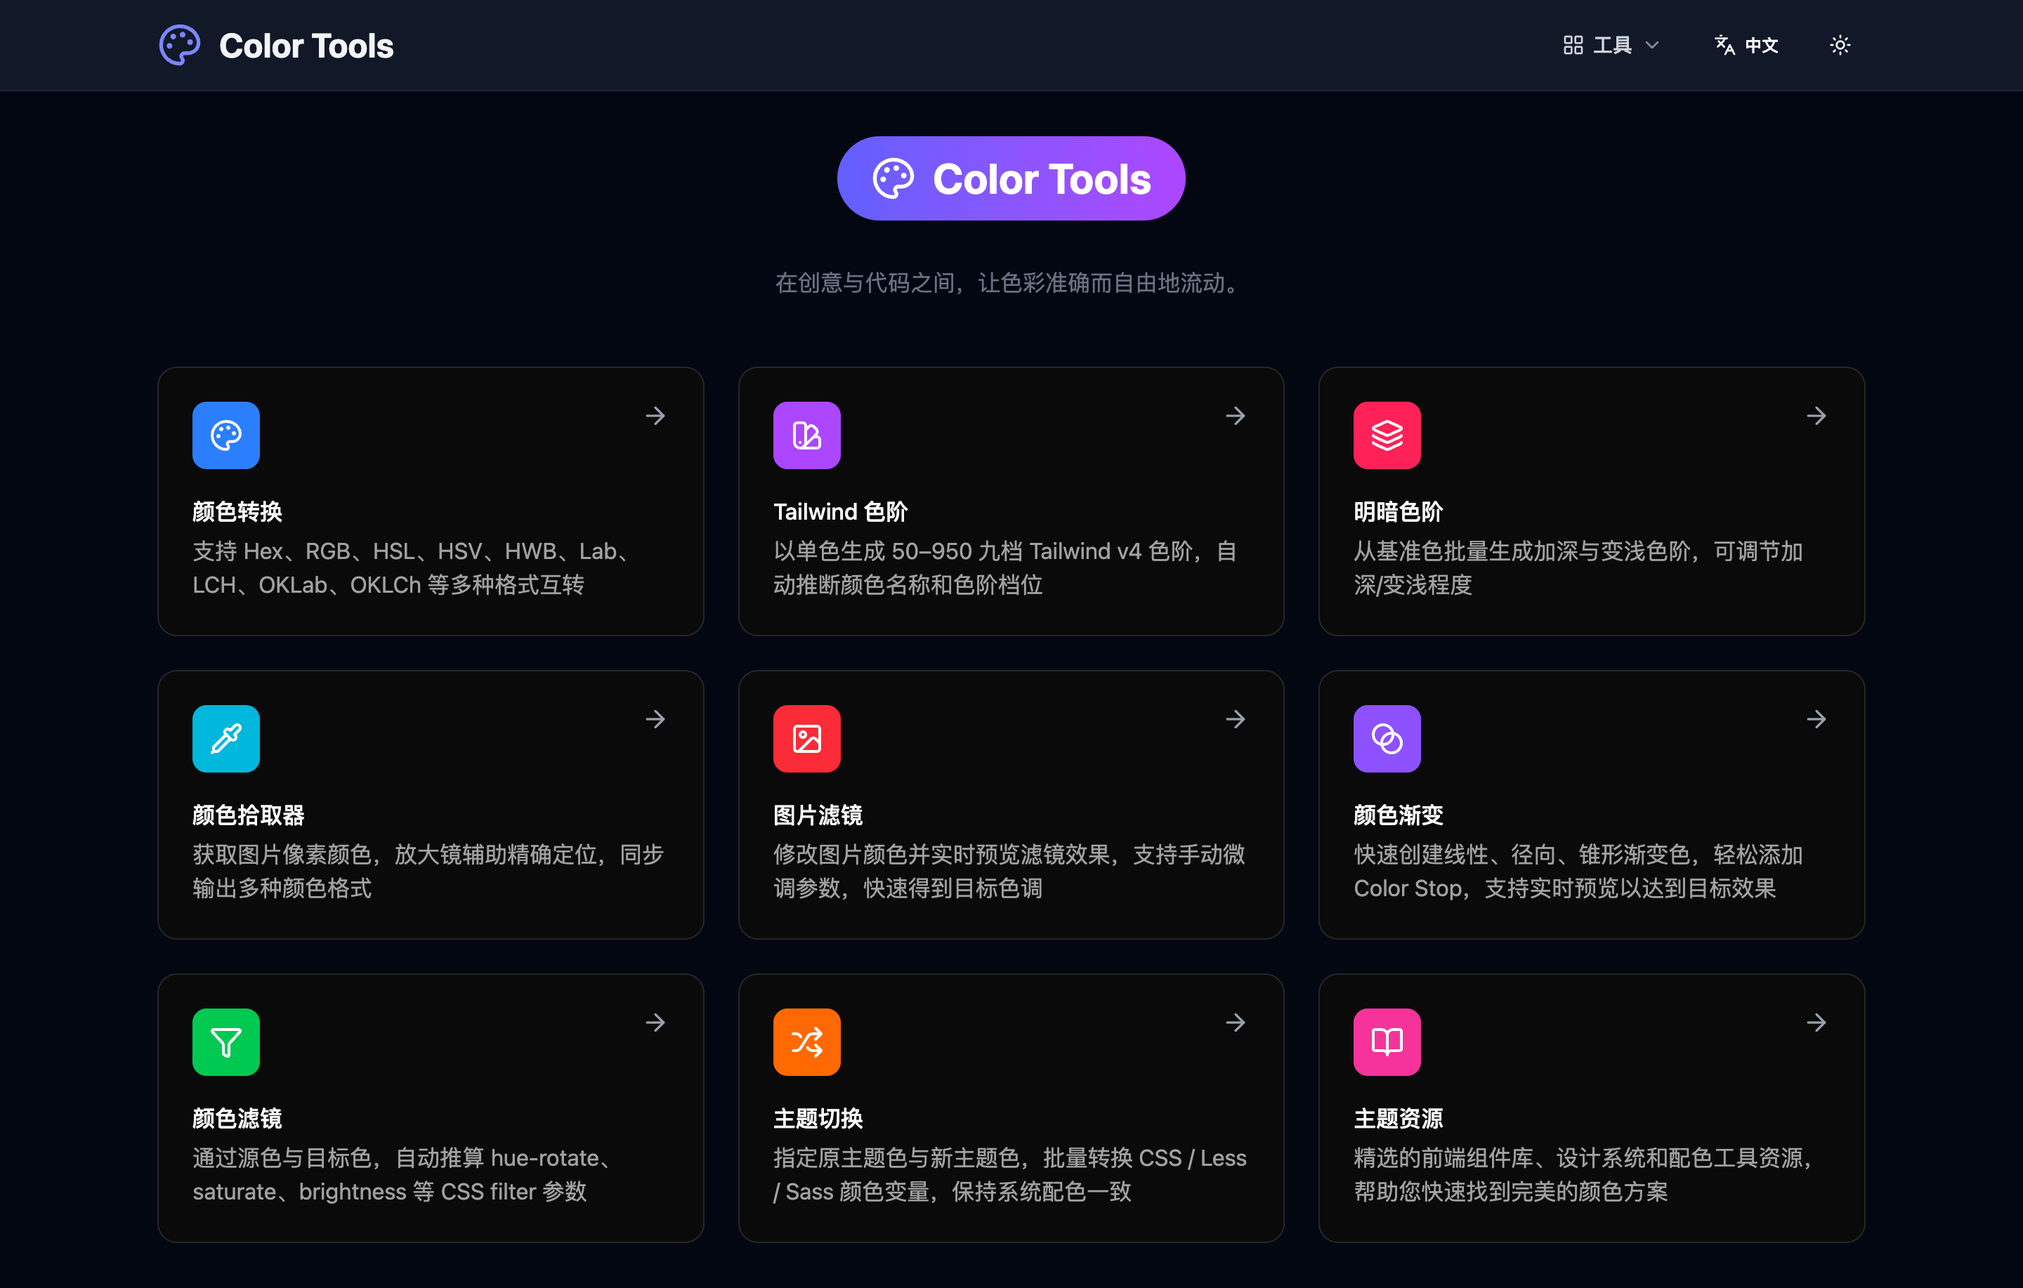
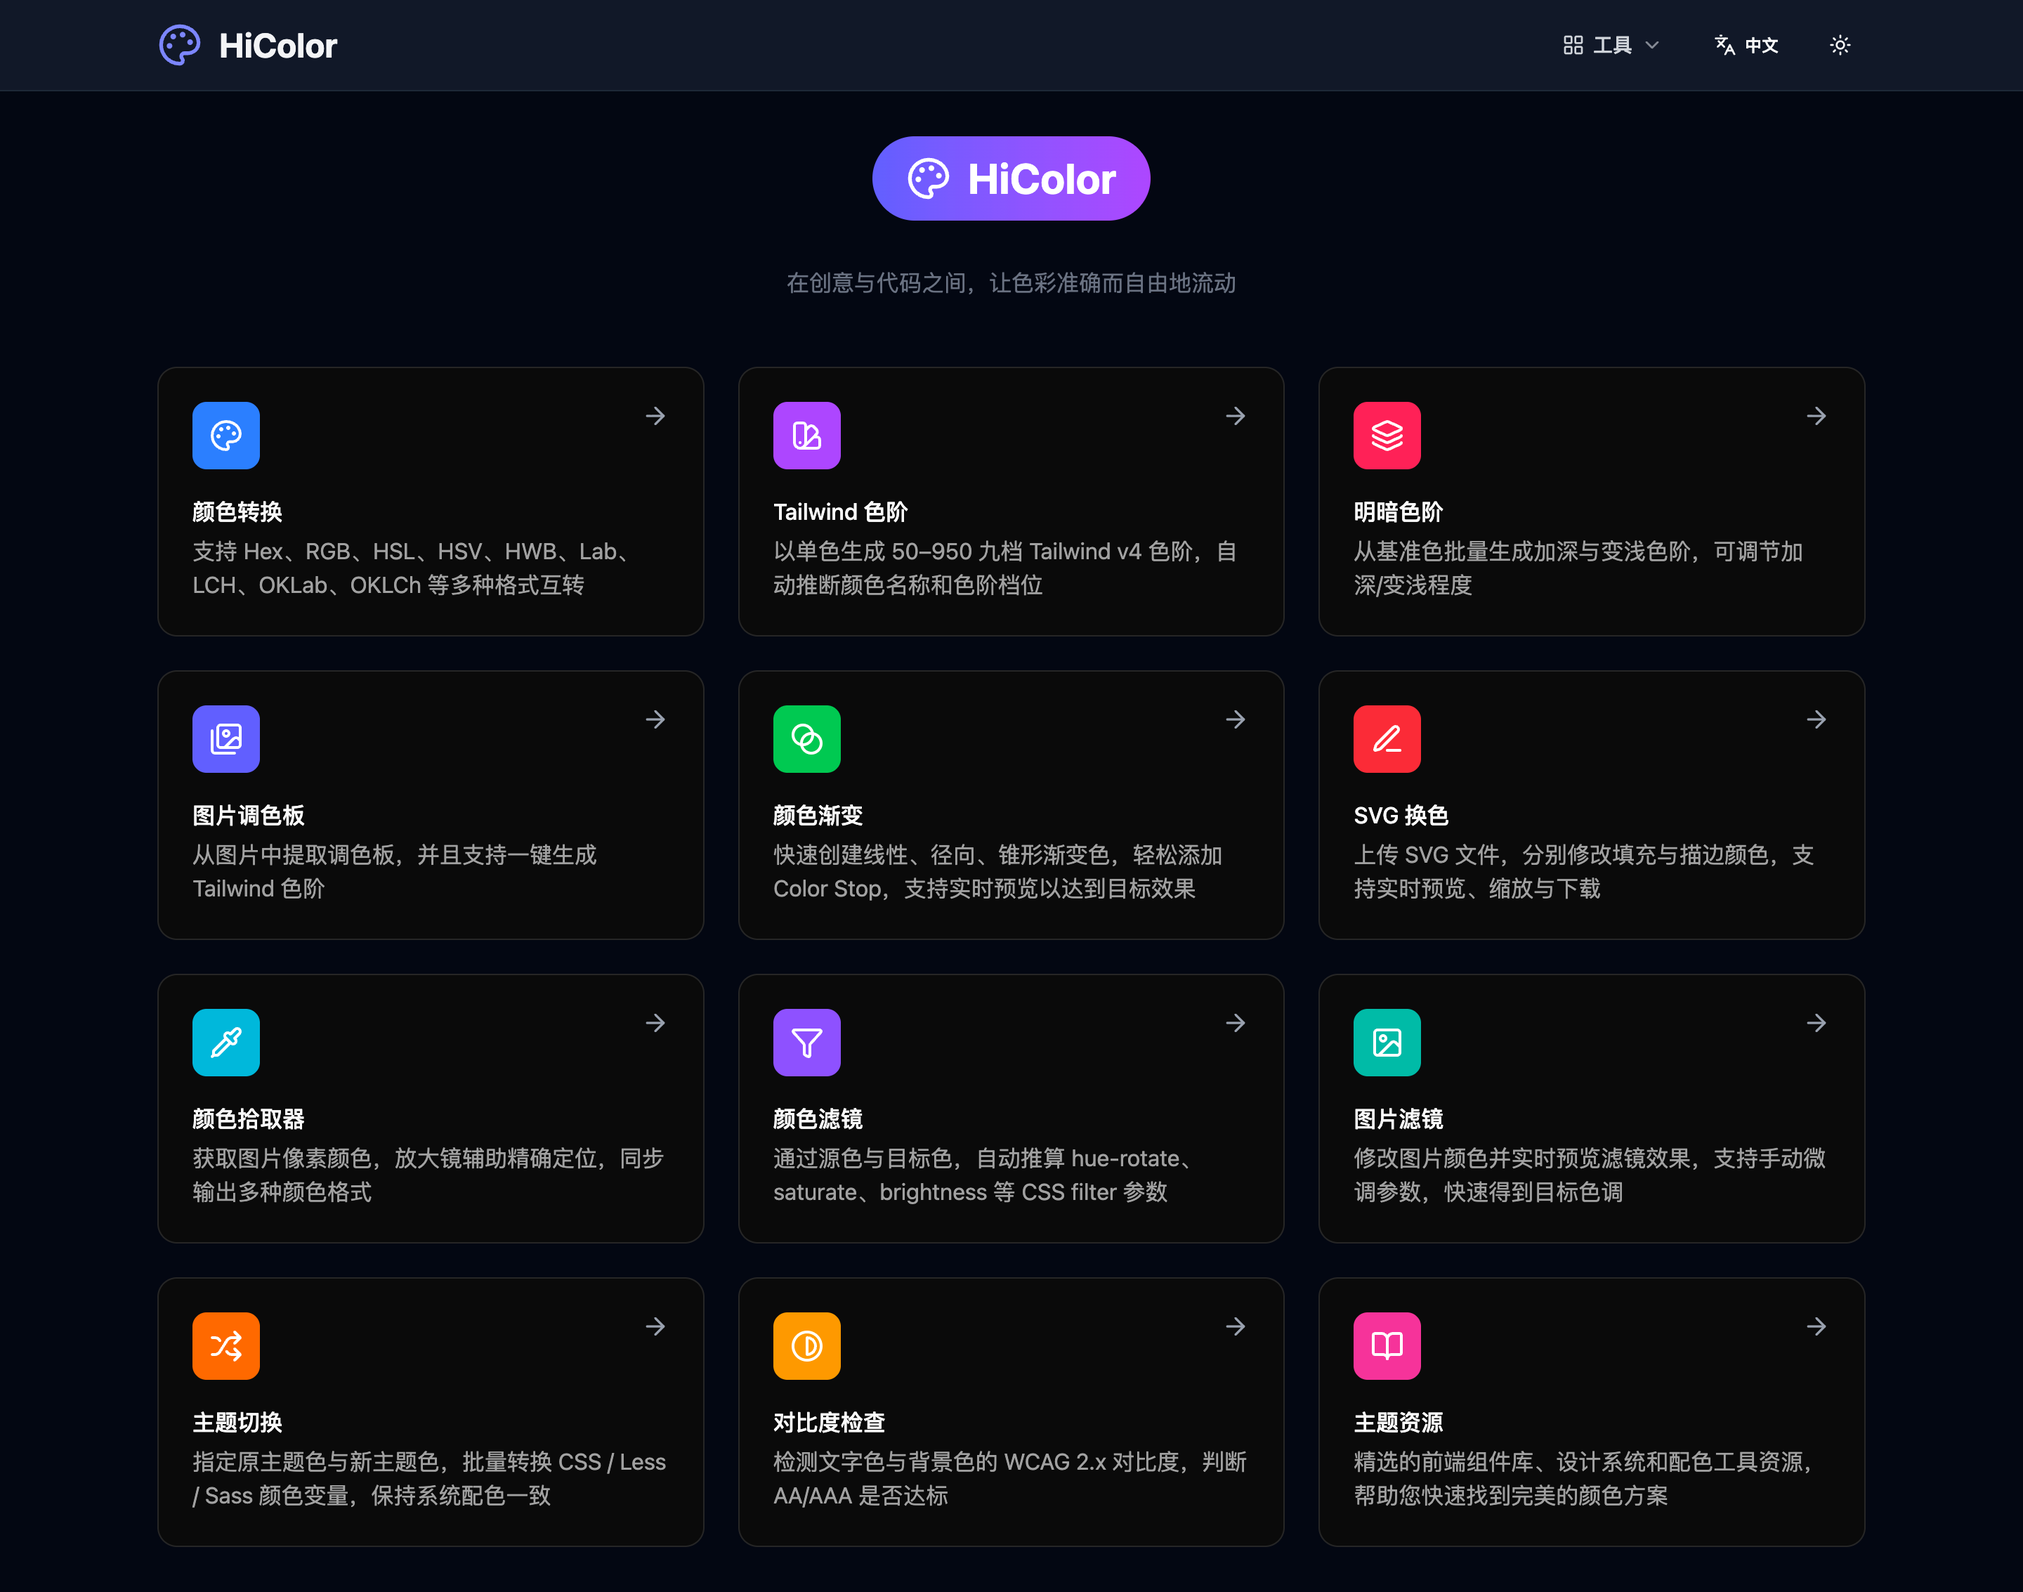
feat: add tailwind-palette.png

diff --git a/docs/blog/2026-06-09-playwright.md b/docs/blog/2026-06-09-playwright.md
@@ -1,0 +1,250 @@
+---
+pageClass: blog-page
+title: Playwright 端到端测试
+tags:
+  - web
+  - test
+  - playwright
+date: 2026-06-09
+author: cp3hnu
+location: ChangSha
+summary: Playwright 是一个面向现代 Web 应用的端到端测试框架。它集成了测试运行器、断言、隔离、并行化和丰富的工具。
+---
+
+# Playwright 端到端测试
+
+Playwright 是一个面向现代 Web 应用的端到端测试框架。它集成了测试运行器、断言、隔离、并行化和丰富的工具。Playwright 支持 Windows、Linux 和 macOS 上的 Chromium、WebKit 和 Firefox 内核浏览器，支持本地测试和持续集成 (CI) 测试。
+
+## 安装
+
+```sh
+$ cd project-dir
+$ npm init playwright@latest
+```
+
+它会询问四个问题：
+
+- Do you want to use TypeScript or JavaScript?
+  TypeScript 还是 JavaScript，默认值：`TypeScript`
+
+- Where to put your end-to-end tests?
+  测试文件夹名称，默认值： `tests` ，如果 `tests` 已存在，则默认值为 `e2e`
+
+- Add a GitHub Actions workflow? 
+
+  是否添加 GitHub Actions 工作流？默认值： `是` 
+
+- Install Playwright browsers (can be done manually via 'npx playwright install')? 
+  是否安装 Playwright 浏览器，默认值： `是` 
+
+如果同意安装 Playwright browsers，则 Playwright 开始下载并安装浏览器（Firefox、WebKit、Chromium），文件存放在 `~/Library/Caches/ms-playwright` 目录下
+
+然后在目录根目录下创建：
+
+```
+playwright.config.ts
+tests/
+  example.spec.ts
+```
+
+- `playwright.config.ts`  是 Playwright 的配置文件，配置目标浏览器、超时、重试次数、项目、报告器等。
+- `tests/example.spec.ts` 是一个最小的测试样例。
+
+如果同意添加 GitHub Actions 工作流，还会在根目录下创建 `.github` 文件夹，里面是 GitHub Actions 工作流相关的配置。
+
+## 更新
+
+更新 Playwright 并下载新的浏览器及其依赖项
+
+```sh
+$ npm install -D @playwright/test@latest
+$ npx playwright install --with-deps
+```
+
+## CLI 命令
+
+```sh
+# Runs the end-to-end tests.
+$ npx playwright test
+
+# Starts the interactive UI mode.
+$ npx playwright test --ui
+
+# Runs the tests only on Desktop Chrome.
+$ npx playwright test --project=chromium
+
+# Runs the tests in a specific file.
+$ npx playwright test example
+
+# Runs the tests in debug mode.
+$ npx playwright test --debug
+ 
+# Auto generate tests with Codegen.
+$ npx playwright codegen
+
+# Open HTML Test Reports
+$ npx playwright show-report
+
+# We suggest that you begin by typing:
+$ npx playwright test
+```
+
+## 测试
+
+Playwright 测试与 [Jest](https://jestjs.io/)、[Vitest](https://vitest.dev/)、[Testing Library](https://testing-library.com/) 一样，执行动作，判断结果与预期是否相符。
+
+但是 Playwright 的优点是会自动等待[可操作性](https://playwright.dev/docs/actionability)检查通过后再执行每个操作。我们无需手动添加等待或处理竞态条件。
+
+Playwright 断言旨在描述最终会实现的预期，从而消除不稳定的超时和竞态条件检查。
+
+下面是 Playwright 生成的测试样例代码
+
+```ts
+import { test, expect } from '@playwright/test';
+
+test('has title', async ({ page }) => {
+  await page.goto('https://playwright.dev/');
+
+  // Expect a title "to contain" a substring.
+  await expect(page).toHaveTitle(/Playwright/);
+});
+
+test('get started link', async ({ page }) => {
+  await page.goto('https://playwright.dev/');
+
+  // Click the get started link.
+  await page.getByRole('link', { name: 'Get started' }).click();
+
+  // Expects page to have a heading with the name of Installation.
+  await expect(page.getByRole('heading', { name: 'Installation' })).toBeVisible();
+});
+```
+
+从这份测试样例代码我们可以看到，主要由两部分组成：[Actions](https://playwright.dev/docs/input) 和 [Assertions](https://playwright.dev/docs/test-assertions)。[Actions](https://playwright.dev/docs/input) 模拟用户点击动作，而 [Assertions](https://playwright.dev/docs/test-assertions) 表达用户期望的结果。
+
+写好测试文件之后，运行 `npx playwright test` 进行测试
+
+```sh
+$ npx playwright test
+```
+
+还可以启动 UI 界面，进行交互式测试
+
+```sh
+$ npx playwright test --ui
+```
+
+### Codegen
+
+写 Playwright 测试文件是比较麻烦的，难点在于怎么找到交互的元素。因此 Playwright 提供了 Codegen 功能，录制测试。
+
+什么叫录制测试，就是打开浏览器，记录你的交互操作，自动为您生成测试代码。
+
+```sh
+$ npx playwright codegen your.domain.com
+```
+
+
+
+
+
+### Test Agents
+
+如果觉得 Codegen 还不够智能，可以使用 Playwright 新推出的智能体 Test Agents：**planner**、**generator**、**healer**。
+
+- **planner**：探索应用程序，生成了一个 Markdown 测试计划
+- **generator**：将 Markdown 计划转换为 Playwright 测试文件
+- **healer**：执行测试套件并自动修复失败的测试
+
+#### 安装
+
+Playwright Test Agents 目前提供 3 个 AI Agents 快速安装
+
+```sh
+# vscode
+$ npx playwright init-agents --loop=vscode
+
+# claude code
+$ npx playwright init-agents --loop=claude
+
+# opencode
+$ npx playwright init-agents --loop=opencode
+```
+
+通过分析它的安装过程，其实也很容易移植到别的 AI Agent，比如下面的命令
+
+```sh
+$ npx playwright init-agents --loop=vscode
+```
+
+其实是在当前目录下，添加了这些文件
+
+```
+Writing file: .github/chatmodes/🎭 generator.chatmode.md
+Writing file: .github/chatmodes/🎭 healer.chatmode.md
+Writing file: .github/chatmodes/ 🎭 planner.chatmode.md
+Writing file: .vscode/mcp.json
+Writing file: tests/seed.spec.ts
+```
+
+它一共做了下面三件事情：
+
+1. 安装了三个 SubAgent，分别对应 **planner**、**generator**、**healer**
+2. 添加 `playwright-test` MCP 服务
+
+```json
+{
+  "servers": {
+    "playwright-test": {
+      "type": "stdio",
+      "command": "npx",
+      "args": [
+        "playwright",
+        "run-test-mcp-server"
+      ]
+    }
+  },
+  "inputs": []
+}
+```
+
+3. 创建了一个 `tests/seed.spec.ts` 文件，这个文件用于 **planner**，生成测试计划
+
+```ts
+import { test, expect } from '@playwright/test';
+
+test.describe('Test group', () => {
+  test('seed', async ({ page }) => {
+    // generate code here.
+  });
+});
+```
+
+所以很容易移植到别的 AI Agent，比如 Cursor
+
+1. 将 3 个 SubAgents 移动到 `.cursor/agents` 目录下
+2. 添加  `playwright-test` MCP 服务到  `.cursor/mcp.json`
+
+然后就可以在 Cursor 里使用 Playwright Test Agents 了
+
+#### 使用
+
+使用 Playwright Test Agents  非常简单
+
+1. 首先使用 **planner** 生成测试计划
+
+
+
+
+
+2. 
+
+
+
+## References
+
+- [Playwright](https://playwright.dev/)
+-  [Jest](https://jestjs.io/)
+- [Vitest](https://vitest.dev/)
+- [Testing Library](https://testing-library.com/) 
+

diff --git a/docs/blog/2026-05-12-skills.md b/docs/blog/2026-05-12-skills.md
@@ -190,11 +190,15 @@ $ npx skills add https://github.com/anthropics/skills --skill frontend-design
 
 ![](./assets/skills-sh.png)
 
-从上面这个图，我们可以看到，[`skills.sh`](https://skills.sh/) 将 skills 安装在 `~/.agents/skills`（用户级） 或者 `project_dir/.agents/skills`（项目级）里。目前有  Codex、Cursor、Gemini CLI、OpenCode 等 17 AI agents 支持这种方式。另外还有 52 个 AI agents（比如 Claude Code、OpenClaw、Windsurf、Trae 等）不支持这种方式，需要安装到他们约定的文件夹下。可以挑选是否为这些额外的 AI agents 安装 Skills.
+从上面这个图，我们可以看到，[`skills.sh`](https://skills.sh/) 将 skills 安装在 `~/.agents/skills` 或者 `project_dir/.agents/skills` 里。
+
+目前有  Codex、Cursor、Gemini CLI、OpenCode 等 17 AI agents 支持这种方式。
+
+另外还有 52 个 AI agents（比如 Claude Code、OpenClaw、Windsurf、Trae 等）不支持这种方式，需要安装到他们约定的文件夹下。可以挑选是否为这些额外的 AI agents 安装 Skills.
 
 > 这里列出了支持的所有的 AI agents - [Supported Agents](https://github.com/vercel-labs/skills#supported-agents)
 
-选择之后（比如选择了 Claude Code），[`skills.sh`](https://skills.sh/) 会将 Skill 安装到 `~/.agents/skills` 以及  `~/.claude/skills` （用户级） 或者 `project_dir/.agents/skills` 以及 `project_dir/.claude/skills` （项目级）里。
+选择之后（比如选择了 Claude Code），[`skills.sh`](https://skills.sh/) 会将 Skill 安装到 `~/.agents/skills` 以及  `~/.claude/skills` 或者 `project_dir/.agents/skills` 以及 `project_dir/.claude/skills` 里。
 
 ![](./assets/skills-sh-install.png)
 
@@ -377,7 +381,19 @@ $ npx skills add https://github.com/nextlevelbuilder/ui-ux-pro-max-skill --skill
 4. **代码生成** - 使用正确的颜色、字体、间距和最佳实践来实现用户界面
 5. **交付前检查** - 验证是否存在常见的 UI/UX 反模式
 
+### `seo-geo-claude-skills`
 
+[`aaron-he-zhu/seo-geo-claude-skills`](https://github.com/aaron-he-zhu/seo-geo-claude-skills) 为 Claude Code、Cursor、Codex 等 AI 代理提供 20 项 SEO 和 GEO 技能。包括关键词研究、内容写作、技术审核和排名跟踪。
+
+#### Skills
+
+| Phase         | Skills                                                       |
+| ------------- | ------------------------------------------------------------ |
+| Research      | [`keyword-research`](https://github.com/aaron-he-zhu/seo-geo-claude-skills/blob/main/research/keyword-research/SKILL.md), [`competitor-analysis`](https://github.com/aaron-he-zhu/seo-geo-claude-skills/blob/main/research/competitor-analysis/SKILL.md), [`serp-analysis`](https://github.com/aaron-he-zhu/seo-geo-claude-skills/blob/main/research/serp-analysis/SKILL.md), [`content-gap-analysis`](https://github.com/aaron-he-zhu/seo-geo-claude-skills/blob/main/research/content-gap-analysis/SKILL.md) |
+| Build         | [`seo-content-writer`](https://github.com/aaron-he-zhu/seo-geo-claude-skills/blob/main/build/seo-content-writer/SKILL.md), [`geo-content-optimizer`](https://github.com/aaron-he-zhu/seo-geo-claude-skills/blob/main/build/geo-content-optimizer/SKILL.md), [`meta-tags-optimizer`](https://github.com/aaron-he-zhu/seo-geo-claude-skills/blob/main/build/meta-tags-optimizer/SKILL.md), [`schema-markup-generator`](https://github.com/aaron-he-zhu/seo-geo-claude-skills/blob/main/build/schema-markup-generator/SKILL.md) |
+| Optimize      | [`on-page-seo-auditor`](https://github.com/aaron-he-zhu/seo-geo-claude-skills/blob/main/optimize/on-page-seo-auditor/SKILL.md), [`technical-seo-checker`](https://github.com/aaron-he-zhu/seo-geo-claude-skills/blob/main/optimize/technical-seo-checker/SKILL.md), [`internal-linking-optimizer`](https://github.com/aaron-he-zhu/seo-geo-claude-skills/blob/main/optimize/internal-linking-optimizer/SKILL.md), [`content-refresher`](https://github.com/aaron-he-zhu/seo-geo-claude-skills/blob/main/optimize/content-refresher/SKILL.md) |
+| Monitor       | [`rank-tracker`](https://github.com/aaron-he-zhu/seo-geo-claude-skills/blob/main/monitor/rank-tracker/SKILL.md), [backlink-analyzer](https://github.com/aaron-he-zhu/seo-geo-claude-skills/blob/main/monitor/backlink-analyzer/SKILL.md), [`performance-reporter`](https://github.com/aaron-he-zhu/seo-geo-claude-skills/blob/main/monitor/performance-reporter/SKILL.md), [`alert-manager`](https://github.com/aaron-he-zhu/seo-geo-claude-skills/blob/main/monitor/alert-manager/SKILL.md) |
+| Cross-cutting | [`content-quality-auditor`](https://github.com/aaron-he-zhu/seo-geo-claude-skills/blob/main/cross-cutting/content-quality-auditor/SKILL.md), [`domain-authority-auditor`](https://github.com/aaron-he-zhu/seo-geo-claude-skills/blob/main/cross-cutting/domain-authority-auditor/SKILL.md), [`entity-optimizer`](https://github.com/aaron-he-zhu/seo-geo-claude-skills/blob/main/cross-cutting/entity-optimizer/SKILL.md), [`memory-management`](https://github.com/aaron-he-zhu/seo-geo-claude-skills/blob/main/cross-cutting/memory-management/SKILL.md) |
 
 ## References
 
@@ -393,6 +409,15 @@ $ npx skills add https://github.com/nextlevelbuilder/ui-ux-pro-max-skill --skill
 - [`vercel-labs/agent-skills`](https://github.com/vercel-labs/agent-skills)
 - [`vercel-labs/next-skills`](https://github.com/vercel-labs/next-skills)
 - [`vercel-labs/agent-browser`](https://github.com/vercel-labs/agent-browser)
+- [`vercel-labs/agent-browser`](https://github.com/vercel-labs/agent-browser)
 - [`obra/superpowers`](https://github.com/obra/superpowers)
 - [`nextlevelbuilder/ui-ux-pro-max-skill`](https://github.com/nextlevelbuilder/ui-ux-pro-max-skill)
 - [`OthmanAdi/planning-with-files`](https://github.com/OthmanAdi/planning-with-files)
+- [`affaan-m/ECC`](https://github.com/affaan-m/ECC)
+- [`aaron-he-zhu/seo-geo-claude-skills`](https://github.com/aaron-he-zhu/seo-geo-claude-skills)
+- [`remotion-dev/skills`](https://github.com/remotion-dev/skills)
+- [`addyosmani/agent-skills`](https://github.com/addyosmani/agent-skills)
+- [`figma/mcp-server-guide`](https://github.com/figma/mcp-server-guide)
+
+
+

diff --git a/docs/color-tools/index.md b/docs/color-tools/index.md
@@ -24,7 +24,12 @@ summary: 在创意与代码之间，让色彩准确而自由地流动。
         <img class="screenshot-image" src="./screenshot.png" />
       </div>
     </div>
-    <div class="features-section">
+    <div class="image-container">
+      <div class="screenshot-div">
+        <img class="screenshot-image" src="./tailwind-palette.png" />
+      </div>
+    </div>
+    <!-- <div class="features-section">
       <h2 class="features-title">功能介绍</h2>
       <div class="features-grid">
         <div class="feature-card" v-for="tool in tools" :key="tool.name">
@@ -32,7 +37,7 @@ summary: 在创意与代码之间，让色彩准确而自由地流动。
           <p class="feature-desc">{{ tool.description }}</p>
         </div>
       </div>
-    </div>
+    </div> -->
   </div>
 </template>
 
@@ -58,24 +63,36 @@ summary: 在创意与代码之间，让色彩准确而自由地流动。
             description: "从基准色批量生成加深与变浅色阶，可调节加深/变浅程度",
           },
           {
-            name: "颜色拾取器",
-            description: "获取图片像素颜色，放大镜辅助精确定位，同步输出多种颜色格式",
+            name: "图片调色板",
+            description: "从图片中提取调色板，并且支持一键生成 Tailwind 色阶",
           },
-          {
-            name: "图片滤镜",
-            description: "修改图片颜色并实时预览滤镜效果，支持手动微调参数，快速得到目标色调",
-          },
-          {
+           {
             name: "颜色渐变",
             description: "快速创建线性、径向、锥形渐变色，轻松添加 Color Stop，支持实时预览以达到目标效果",
+          },
+          {
+            name: "SVG 换色",
+            description: "修改 SVG 文件填充与描边的颜色，支持实时预览与下载",
+          },
+          {
+            name: "颜色拾取器",
+            description: "获取图片像素颜色，放大镜辅助精确定位，同步输出多种颜色格式",
           },
           {
             name: "颜色滤镜",
             description: "通过源色与目标色，自动推算 hue-rotate、saturate、brightness 等 CSS filter 参数",
           },
           {
+            name: "图片滤镜",
+            description: "修改图片颜色并实时预览滤镜效果，支持手动微调参数，快速得到目标色调",
+          },
+          {
             name: "主题切换",
             description: "指定原主题色与新主题色，批量转换 CSS / Less / Sass 颜色变量，保持系统配色一致",
+          },
+          {
+            name: "对比度检查",
+            description: "检测文字色与背景色的 WCAG 2.x 对比度，判断 AA/AAA 是否达标",
           },
           {
             name: "主题资源",
